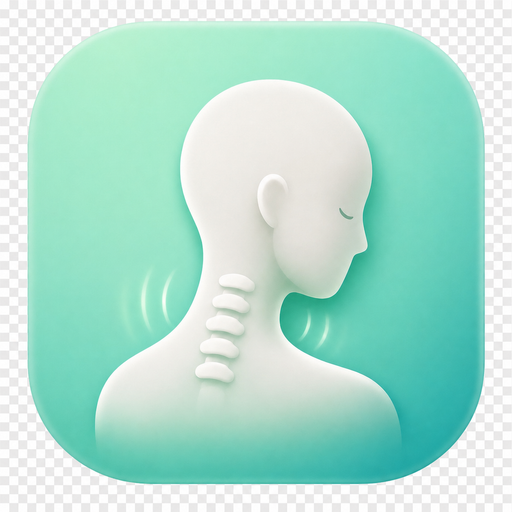
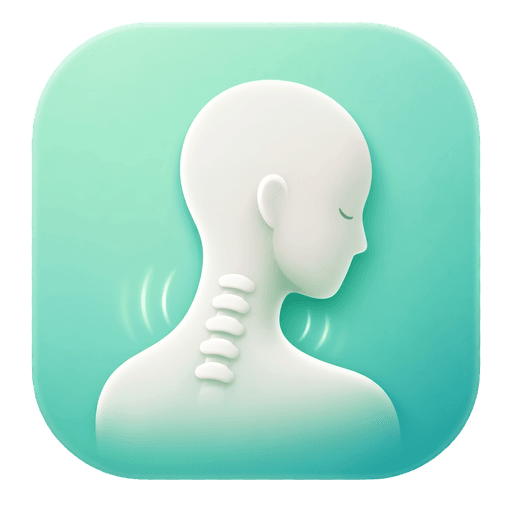
feat: 首こりアイコンを新画像に差し替え + チャットエラー詳細表示

diff --git a/src/app/page.tsx b/src/app/page.tsx
@@ -2304,12 +2304,14 @@ function AiCounselScreen({
       });
 
       if (result.recommendedSymptomId) setRecommendedId(result.recommendedSymptomId);
-    } catch {
+    } catch (err) {
+      const errMsg = err instanceof Error ? err.message : String(err);
+      console.error("[chat compare] error:", errMsg, err);
       setMessages([
         ...newMessages,
         {
           role: "assistant",
-          content: "すみません、比較分析中にエラーが発生しました。もう一度お試しください。",
+          content: `すみません、比較分析中にエラーが発生しました。\n（詳細: ${errMsg}）`,
         },
       ]);
     }
@@ -2353,10 +2355,12 @@ function AiCounselScreen({
       if (photoForThisSend) {
         setPhotoViewingBadge(null);
       }
-    } catch {
+    } catch (err) {
+      const errMsg = err instanceof Error ? err.message : String(err);
+      console.error("[chat] error:", errMsg, err);
       setMessages([
         ...newMessages,
-        { role: "assistant", content: "すみません、通信エラーが発生しました。もう一度お試しください。" },
+        { role: "assistant", content: `すみません、エラーが発生しました。\n（詳細: ${errMsg}）\nもう一度お試しください。` },
       ]);
     }
     setLoading(false);
